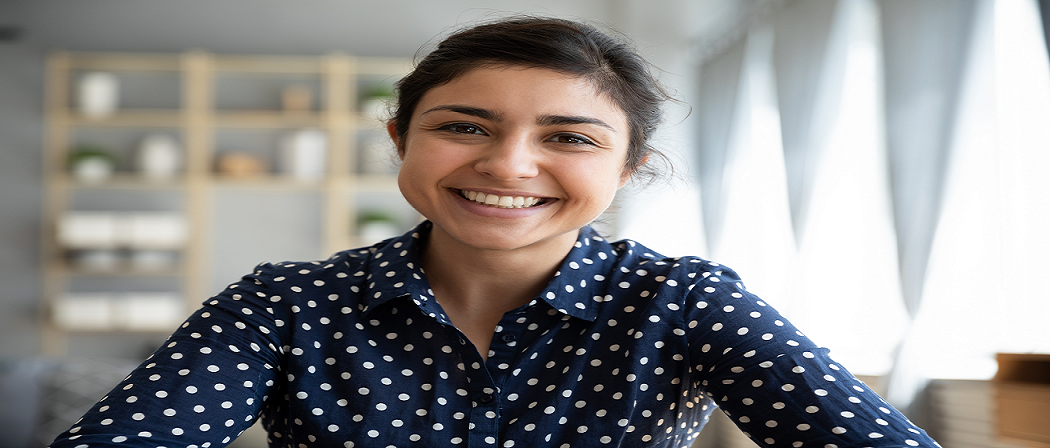
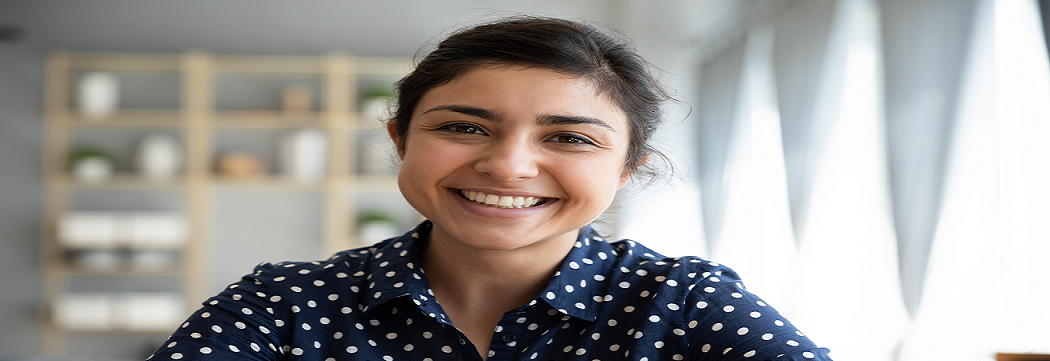
responsiveness

diff --git a/src/pages/register/register.js b/src/pages/register/register.js
@@ -11,25 +11,28 @@ function Register() {
     	<Container sx={{ pt: '100px', pb: '100px', textAlign: 'center' }}>
         <Typography variant='h3' component='div' color='#06225C' fontWeight='700' gutterBottom> PERFORM with SEnS </Typography>
         <Typography variant='h5' component='div' color='#E99E1B' fontWeight='500' gutterBottom>Trillions of Bacteria, Infinite Possibilities </Typography>
-         <Typography variant='h6'  component='div' color="#000">We help you perform to your best, each day, by 
-         managing the bacteria in your gut. We help you harness your inner winning power. Your daily performance
-          simply goes up with Better Sleep, Better Energy Levels and better managed Stress </Typography>
+         <Typography variant='h6'  component='div' color="#000">
+         At Iom, we understand that Stress & anxiety, Energy levels and Sleeping challenges impact performance and confidence.
+                <br/>
+                With a focused combination of bacterial science, technology and ancient Indian dietary practices, we endeavor to create better emotional and cognitive health for you
+          
+          
+       </Typography>
 
           <Button variant="contained" href="https://akmu7rzwzuh.typeform.com/to/eowerG6J"
-          
-           style={{backgroundColor:'#E1AB3B',marginTop:'20px'}}>Order Now</Button>
+          style={{backgroundColor:'#E1AB3B',marginTop:'20px'}}>Order Now</Button>
 
 <div className="bg" >
-<Grid container spacing={2} style={{padding:'30px 0', color:'#fff'}} >
-<Grid item md={4} xs={12} style={{textAlign:'justify'}}>
+<Grid container className="bg-pd" spacing={2} style={{padding:'30px 0', color:'#fff'}} >
+<Grid item lg={4}  md={6} sm={8} xs={12} style={{textAlign:'center'}}>
     <div className="bg-color">
 
-                <Typography variant='h6' component='div' color="#fff" fontWeight='400' gutterBottom>The Microbiome People </Typography>
-              <br/>  <Typography variant='h4' component='div' color='#E1AB3B' fontWeight='500' gutterBottom> Perform with SEnS</Typography>
-             <br/>   <Typography variant='p' component='div' color="#fff" gutterBottom> 
-                At Iom, we understand that Stress & anxiety, Energy levels and Sleeping challenges impact performance and confidence.
-                <br/>
-                With a focused combination of bacterial science, technology and ancient Indian dietary practices, we endeavor to create better emotional and cognitive health for you.</Typography>
+                {/* <Typography variant='h6' component='div' color="#fff" fontWeight='400' gutterBottom>The Microbiome People </Typography> */}
+            <Typography variant='h4' component='div' color='#E1AB3B' fontWeight='500' gutterBottom> Perform with SEnS</Typography>
+         <Typography variant='p' component='div' color="#fff" gutterBottom style={{marginTop:'20px'}}>     We help you perform to your best, each day, by 
+         managing the bacteria in your gut. We help you harness your inner winning power. Your daily performance
+          simply goes up with Better Sleep, Better Energy Levels and better managed Stress
+               .</Typography>
                 </div>
                </Grid>
                {/* <Grid item md={6} xs={12} >

diff --git a/src/pages/style/styles.css b/src/pages/style/styles.css
@@ -6,17 +6,42 @@
     color: rgb(6, 34, 92);
 }
 
+/* @media screen and (max-width: 900px) {
+    .bg{
+    background-image: url("../../common/images/sens(900).png");   
+    padding:5% 10px;
+    }
+}
+
+
+    .bg{
+    background-image: url("../../common/images/sens-one.png");   
+    padding:5% 50px;
+    }
+} */
+
 .bg{
     margin-top: 40px;
-    background-image: url("../../common/images/sens-one.png");
+    background-image: url("../../common/images/sens.png");
 background-repeat: no-repeat;
 color:#fff;
+background-position: center; 
 padding:5% 50px;
-
 border-radius: 50px;
-
+background-size: cover;
 
 }
+
+.bg-pd{
+    /* padding:50px; */
+}
+
+@media screen and (max-width: 450px) {
+    .bg{
+        padding:5% 20px !important;
+    }
+}
+
 .bg-color{
     background-color: #021130;
     padding:20px;

diff --git a/src/common/components/header.js b/src/common/components/header.js
@@ -38,7 +38,7 @@ const Topbar = () => {
   };
 
   return (
-    <AppBar position="static">
+    <AppBar position="static" style={{boxShadow:'none',borderBottom:'1px solid #E0E0E0'}}>
       <Container maxWidth="xl" className='nav-bg'>
         <Toolbar disableGutters >
           {/* <AdbIcon sx={{ display: { xs: 'none', md: 'flex' }, mr: 1 }} /> */}
